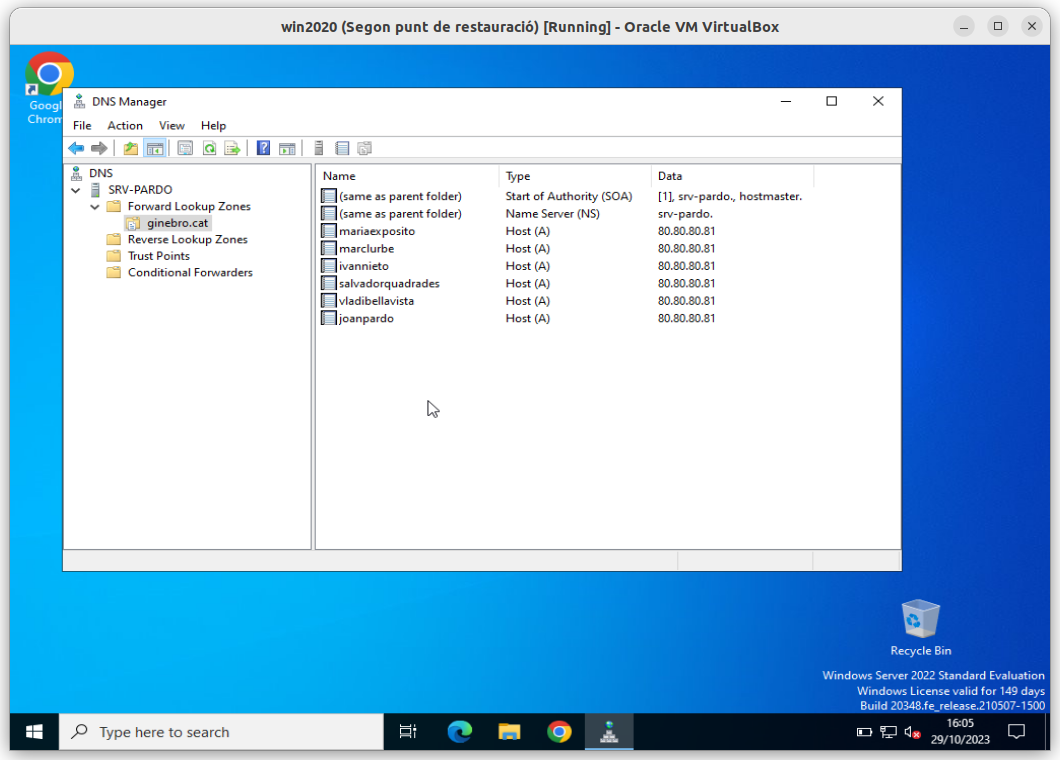
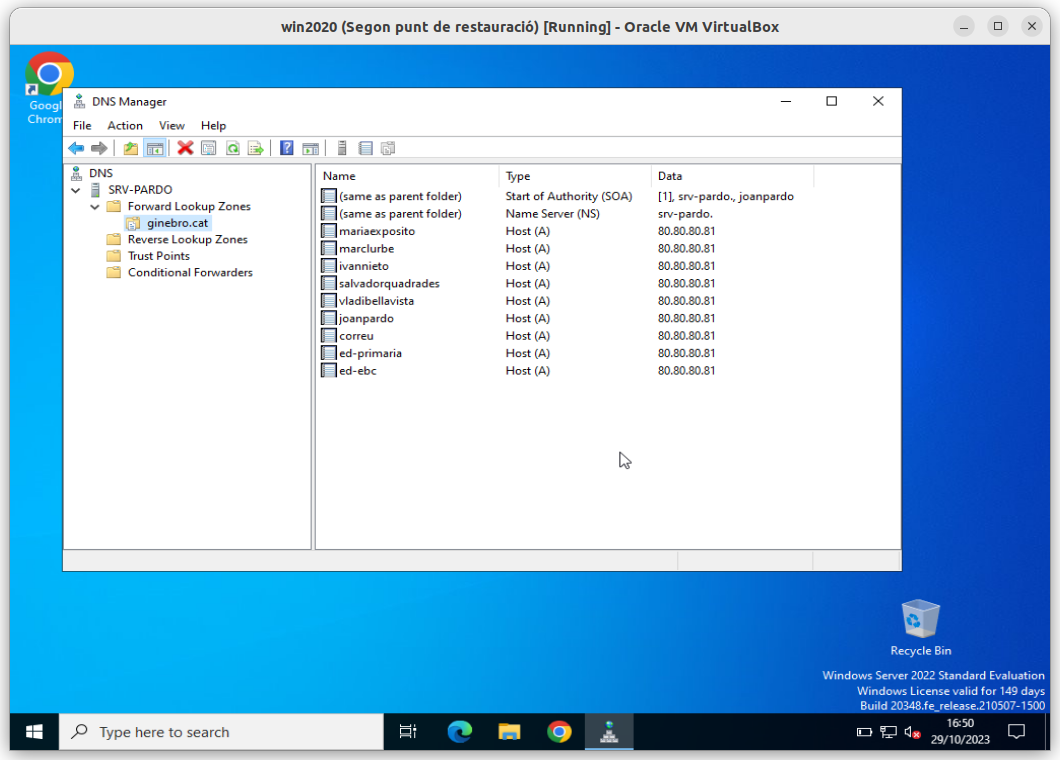
README.md updated i pujades imatges!

diff --git a/README.md b/README.md
@@ -324,11 +324,10 @@ Els **```HOSTS```** (**registres de tipus** **```A```**) que relacionen un nom a
 
 |Nom|Adreça IP|
 |---|---|
-|**```correu.ginebro.cat```**|**```80.80.80.81```**|
+|**```secretaria.ginebro.cat```**|**```80.80.80.81```**|
 |**```ed-primaria.ginebro.cat```**|**```80.80.80.81```**|
 |**```ed-ebc.ginebro.cat```**|**```45.45.45.46```**|
  
-
 #### Els **```SOBRENOMS```** o **àlies**
 
 Serien els **registres** **```CNAME```** que relacionen un **sobrenom** a un **nom**, podrien ser:
@@ -341,7 +340,7 @@ Serien els **registres** **```CNAME```** que relacionen un **sobrenom** a un **n
 |**```tutor-sxm1```**|**```salvadorquadrades.ginebro.cat```**|
 |**```tutor-sxm2```**|**```vladibellavista.ginebro.cat```**|
 |**```profe-sxa```**|**```joanpardo.ginebro.cat```**|
-|**```profe-sxa```**|**```ivannieto.ginebro.cat```**|
+|**```profe-sxa-2```**|**```ivannieto.ginebro.cat```**|
 
 #### Els **serveis especials**
 
@@ -351,14 +350,13 @@ Seguint l’exemple, es pot informar al carter que quan porti una carta la deixi
 
 |Domini|Nom|
 |---|---|
-|**```ginebro.cat```**|**```correu.ginebro.cat```**|
+|**```correu.ginebro.cat```**|**```secretaria.ginebro.cat```**|
 
 L’encarregat de mantenir tot aquest llistat per qui el vulgui consultar és el **servei de DNS** i és útil per resoldre les adreces públiques (**Internet**) com les internes (**xarxa privada**).
 
 ## ***Pas 4***: Configurar el nostre propi **servidor de ```DNS```**
 
 ![Alt text](./images/image.png)
-
 
 ![Alt text](./images/image-1.png)
 
@@ -390,7 +388,8 @@ L’encarregat de mantenir tot aquest llistat per qui el vulgui consultar és el
 
 ![Alt text](./images/image-15.png)
 
-## Instal·lació del servei DNS
+
+## ***Pas 5***: Instal·lació del servei DNS
 
 ![Alt text](./images/image-34.png)
 
@@ -456,6 +455,7 @@ I per últim, el registre **``NS``** (**```Name Server```**) que té com a valor
 
 ![Alt text](./images/image-43.png)
 
+## ***Pas 6***: Configuració del servei DNS
 
 ### Creació dels **registres de tipus** **```A```**
 
@@ -469,7 +469,9 @@ Ara toca crear els **```hosts```** (o **registres de tipus** **```A```**) que re
 |**```salvadorquadrades```**|**```80.80.80.81```**|
 |**```vladibellavista```**|**```80.80.80.81```**|
 |**```joanpardo```**|**```80.80.80.81```**|
-
+|**```correu```**|**```80.80.80.81```**|
+|**```ed-primaria```**|**```80.80.80.81```**|
+|**```ed-ebc```**|**```45.45.45.46```**|
 
 **Pas 1.** A sobre de la icona de la **zona directa** (**Forward lookup zone**), pitja el botó dret del ratolí i
  escull l'opció **```New Host (A or AAAA) ...```**
@@ -495,9 +497,63 @@ Ara toca crear els **```hosts```** (o **registres de tipus** **```A```**) que re
 
 ![Alt text](./images/image-32.png)
 
-
 **Pas 5.** Repetir els passos 1, 2, 3 i 4 per a tots els **registres de tipus ```A```**. 
+
+Tant les persones com els espais:
 
 ![Alt text](./images/image-33.png)
 
+### Creació dels **registres de tipus** **```CNAME```**
 
+Ara toca crear els **```SOBRENOMS```** (o **registres de tipus** **```CNAME```**) que relacionen un nom amb un altre nom.
+
+|Sobrenom|Nom|
+|---|---|
+|**```director-pedagogic```**|**```mariaexposito.ginebro.cat```**|
+|**```cap-estudis```**|**```marclurbe.ginebro.cat```**|
+|**```resp-cicles-informatica```**|**```ivannieto.ginebro.cat```**|
+|**```tutor-sxm1```**|**```salvadorquadrades.ginebro.cat```**|
+|**```tutor-sxm2```**|**```vladibellavista.ginebro.cat```**|
+|**```profe-sxa```**|**```joanpardo.ginebro.cat```**|
+|**```profe-sxa-2```**|**```ivannieto.ginebro.cat```**|
+
+
+**Pas 1.** A sobre de la icona de la **zona directa** (**Forward lookup zone**), pitja el botó dret del ratolí i
+ escull l'opció **```New Alias (CNAME) ...```**
+
+![image-44.png](./images/image-44.png)
+
+**Pas 2.** A la nova finestra **```New Host```** que s'ha obert, cal afegir la informació del registre:
+
+|Camp|Informació|
+|---|---|
+|Alias Name|**```director-pedagogic```**|
+|FQDN Target|**```mariaexposito.ginebro.cat```**|
+
+![image-45.png](./images/image-45.png)
+
+**Pas 3.** Pressiona el botó <kbd>Add <u>H</u>ost</kbd>
+
+![image-46.png](./images/image-46.png)
+
+
+**Pas 4.** Repetir els passos 1, 2 i 3 per a tots els **registres de tipus ```CNAME```**. 
+
+![image-47.png](./images/image-47.png)
+
+### Creació dels **registres de tipus** **```MX```**
+
+Ara toca crear els **serveis especials**, com és el cas del **servei de correu electrònic** (**```registre MX```**) que relaciona un domini amb el **```HOST```** on s’ha d’**entregar el correu**.
+
+|Sobrenom|Nom|
+|---|---|
+|**```correu.ginebro.cat```**|**```secretaria.ginebro.cat```**|
+
+**Pas 1.** A sobre de la icona de la **zona directa** (**Forward lookup zone**), pitja el botó dret del ratolí i
+ escull l'opció **```New Alias (CNAME) ...```**
+
+![image-48.png](./images/image-48.png)
+
+![image-49.png](./images/image-49.png)
+
+## I ja està! Ja tenim en nostre servidor de DNS instal·lat i configurat!!
